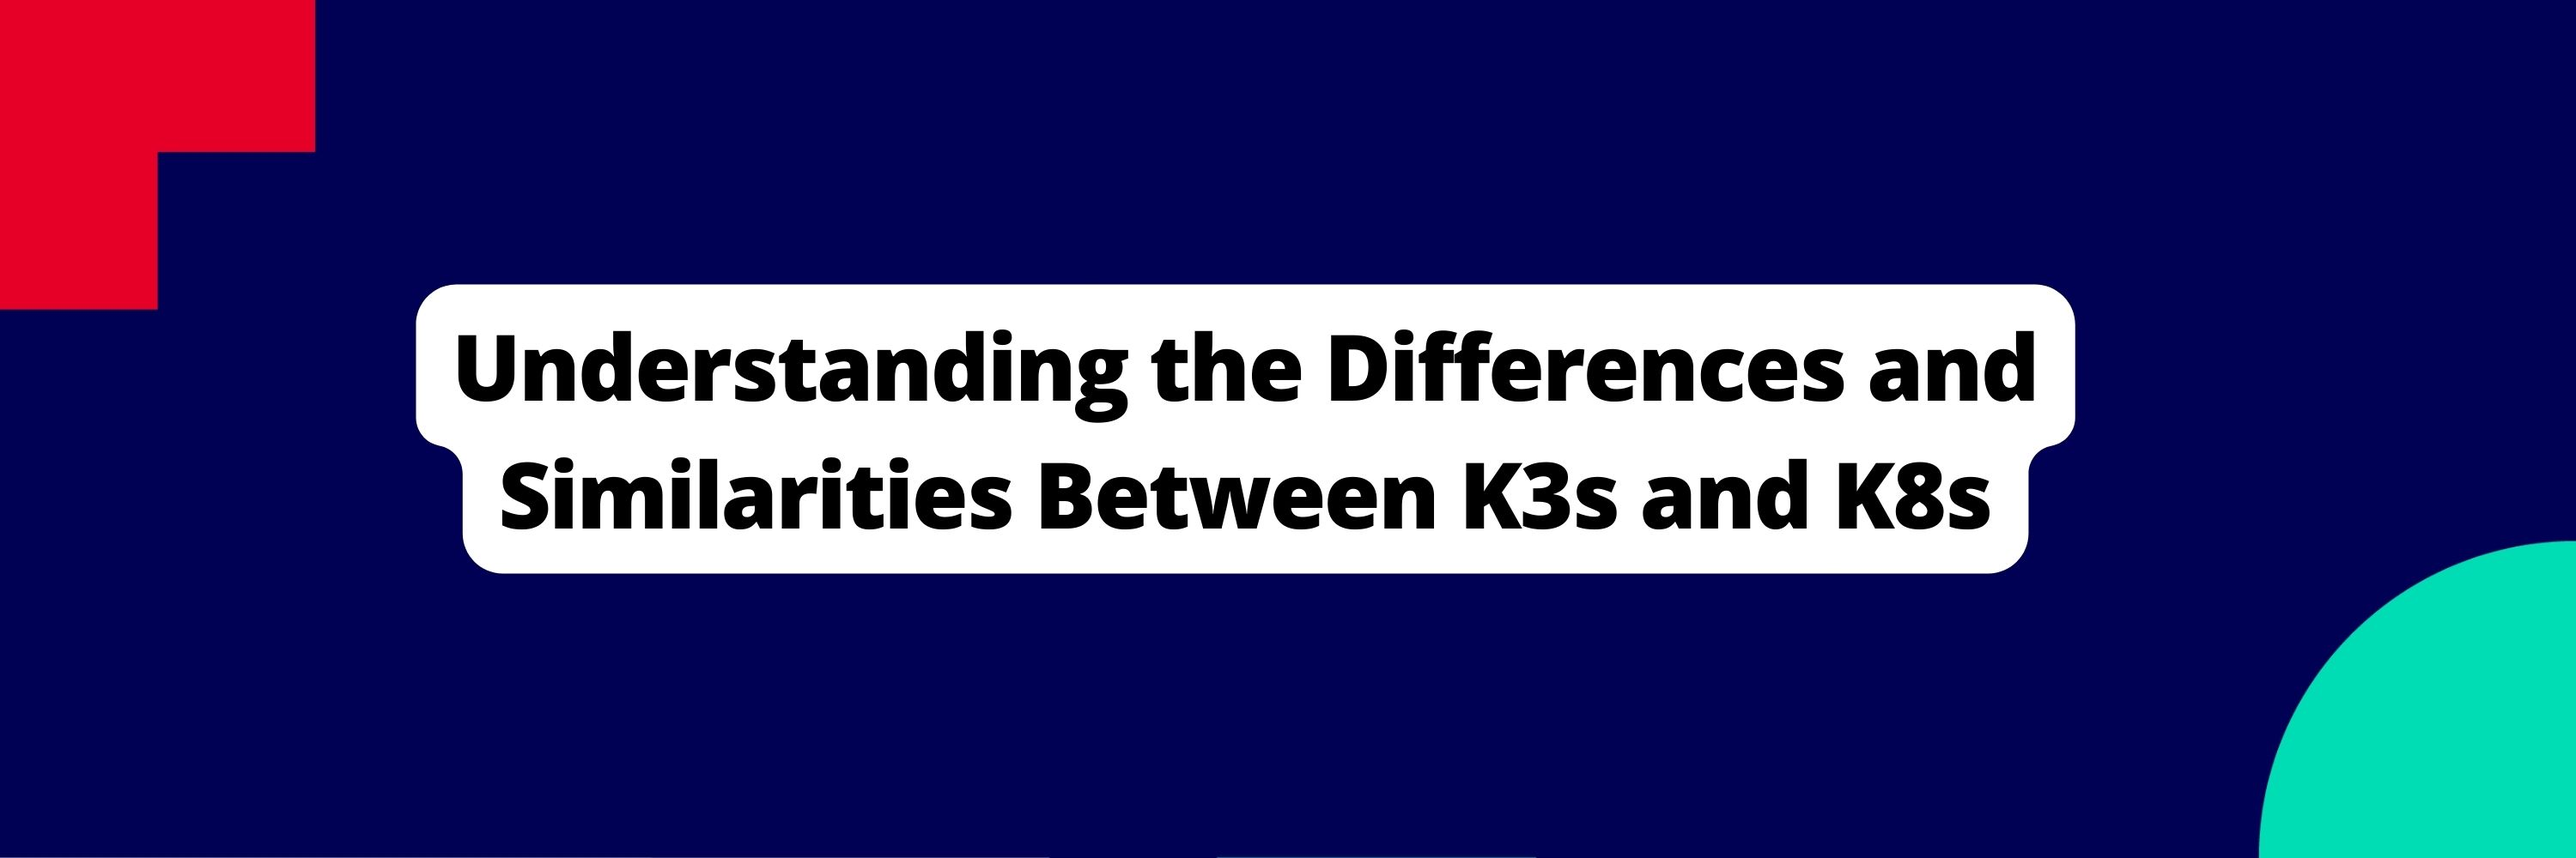
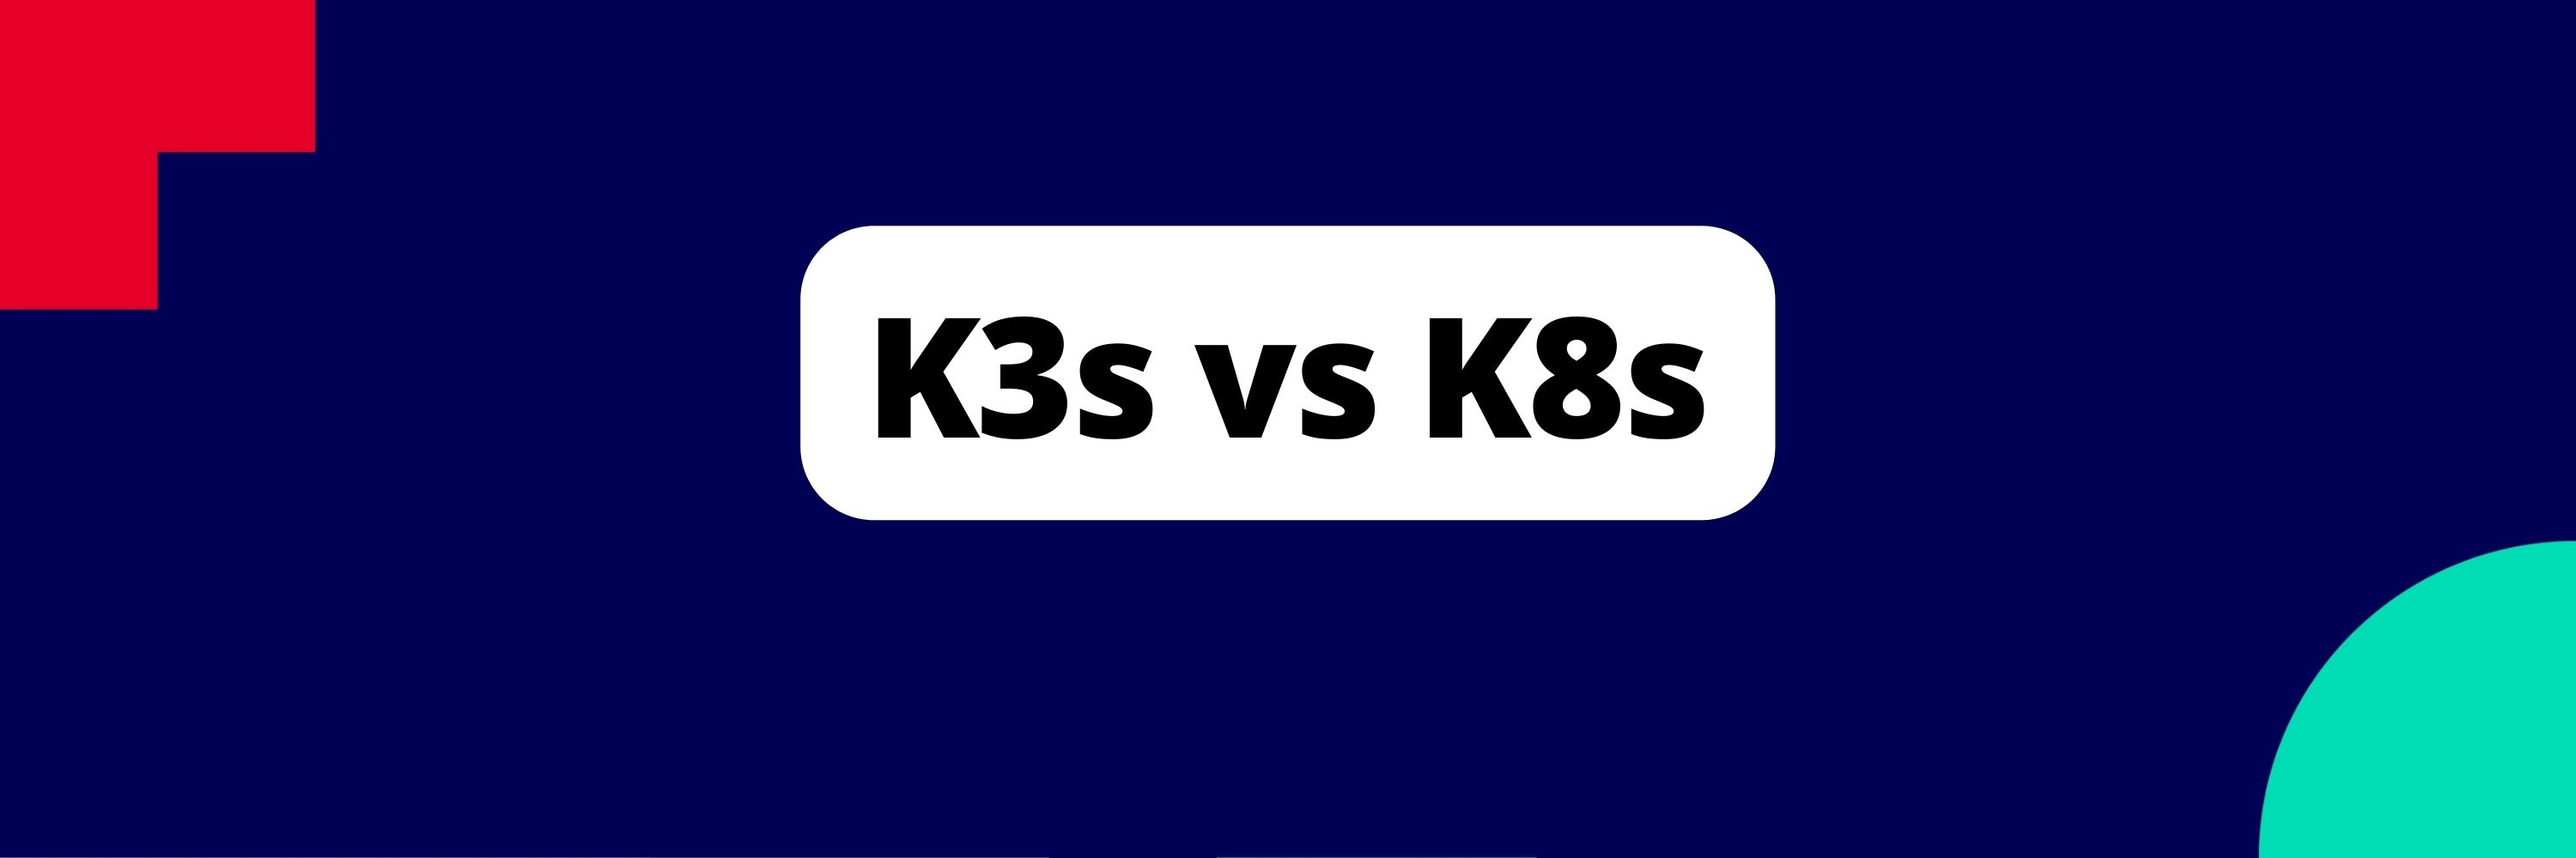
Done with all fixes required

Changed region(s): [[0.155, 0.248, 0.806, 0.682]]

diff --git a/blog/_posts/2022-09-14-aws-networks.md b/blog/_posts/2022-09-14-aws-networks.md
@@ -55,7 +55,7 @@ Sign into your AWS console and navigate to the VPC service. You can do this by t
 
 <div class="wide">
 
-![The Main VPC Dashboard]({{site.images}}{{page.slug}}/vpc-home.png)
+![The Main VPC Dashboard]({{site.images}}{{page.slug}}/vpc-dashboard.png)
 
 </div>
 
@@ -83,7 +83,7 @@ That's all we'll need to do for this section. Click `Create VPC` and we're done.
 
 <div class="wide">
 
-![Now we have 2 VPCs: The default and the one we just created]({{site.images}}{{page.slug}}/vpc-home.png)
+![Now we have 2 VPCs: The default and the one we just created]({{site.images}}{{page.slug}}/your-vpcs.png)
 
 </div>
 

diff --git a/blog/_posts/2022-10-04-build-real-time-comm-app.md b/blog/_posts/2022-10-04-build-real-time-comm-app.md
@@ -1,5 +1,5 @@
 ---
-title: "WebSocket Protocol with Django Channelsax"
+title: "WebSocket Protocol with Django Channels"
 categories:
   - Tutorials
 toc: true

diff --git a/blog/_posts/2022-10-23-K3s-&-K8s.md b/blog/_posts/2022-10-23-K3s-&-K8s.md
@@ -1,5 +1,5 @@
 ---
-title: "Understanding the Differences and Similarities Between K3s and K8s"
+title: "K3s vs K8s"
 categories:
   - Tutorials
 toc: true
